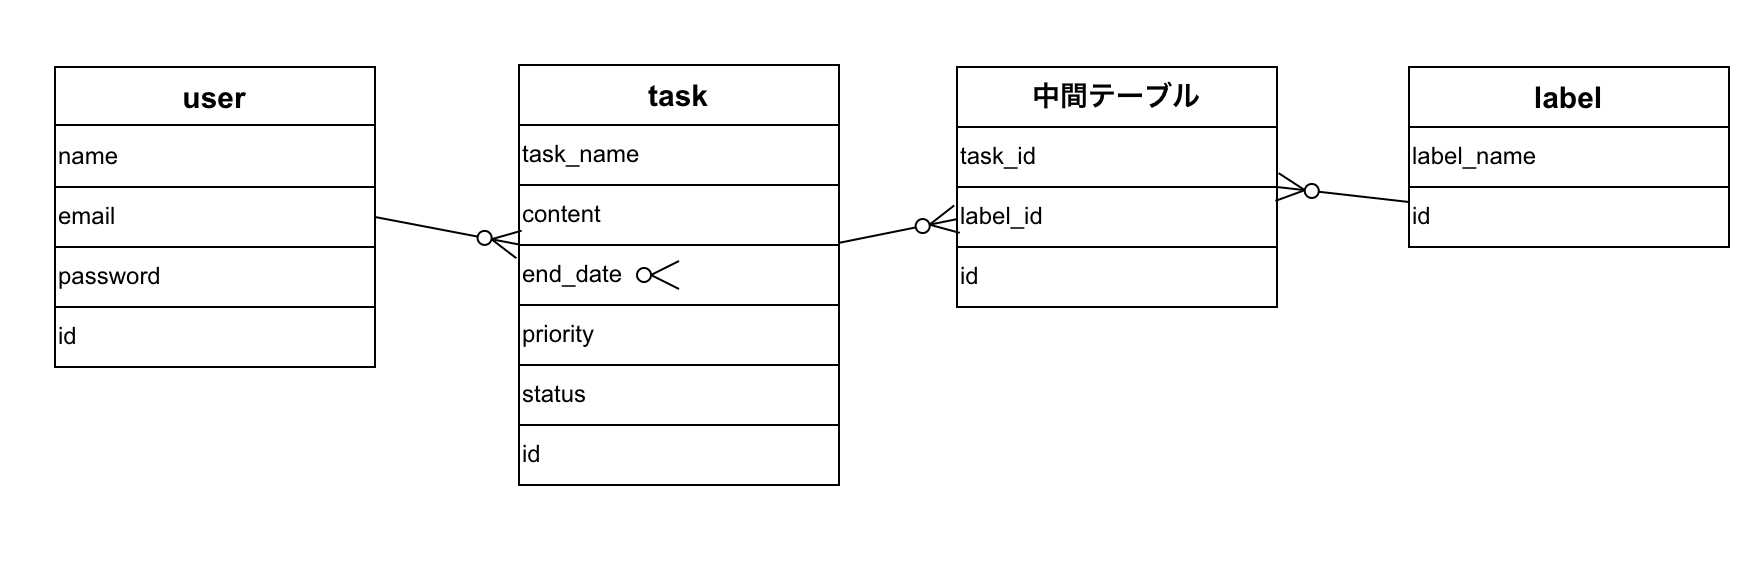
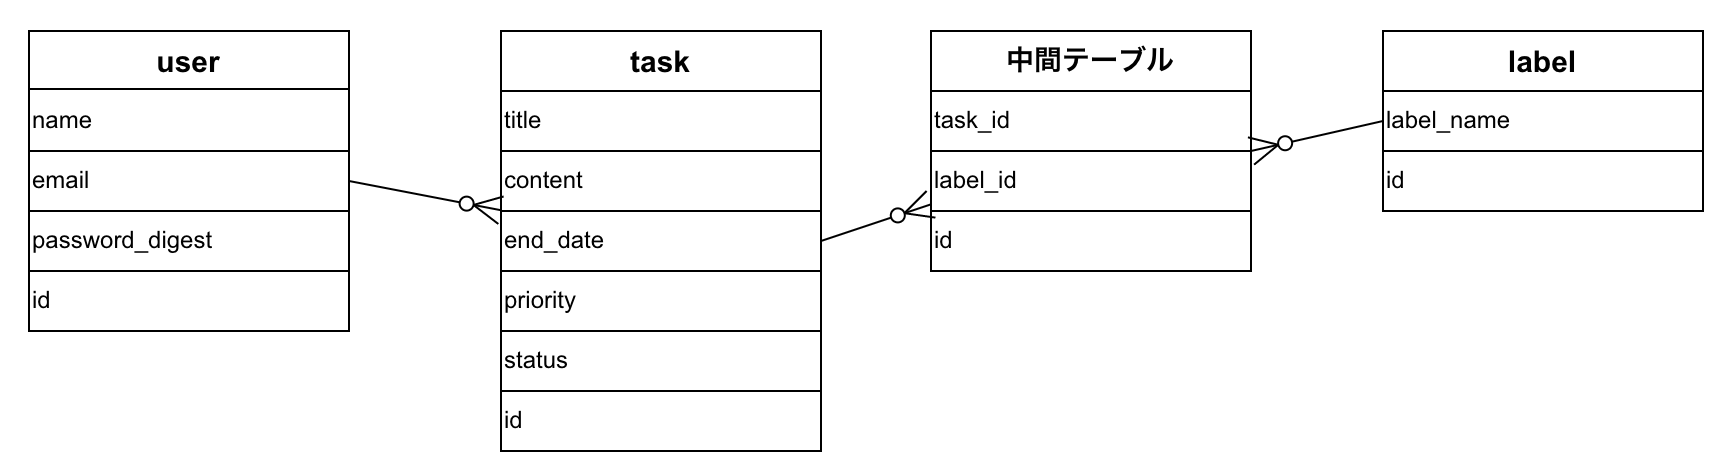
ER図 README修正

diff --git a/README.md b/README.md
@@ -1,5 +1,5 @@
 # README
-#tasksテーブル
+#taskテーブル
 |  カラム名  | データ型  |
 |  :---     | :---    |
 | title     | string  |
@@ -8,12 +8,20 @@
 
 
 #userテーブル
-|  カラム名  | データ型  |
-|  :---     | :---    |
-| name      | string  |
-| email     | string  |
-| password  | string  |
-| id        |
+|  カラム名          | データ型  |
+|  :---            | :---    |
+| name             | string  |
+| email            | string  |
+| password_digest  | string  |
+| id               |
+
+
+#中間テーブル
+|  カラム名   |
+|  :---      |
+| task_id    |
+| user_id    |  
+
 
 
 
